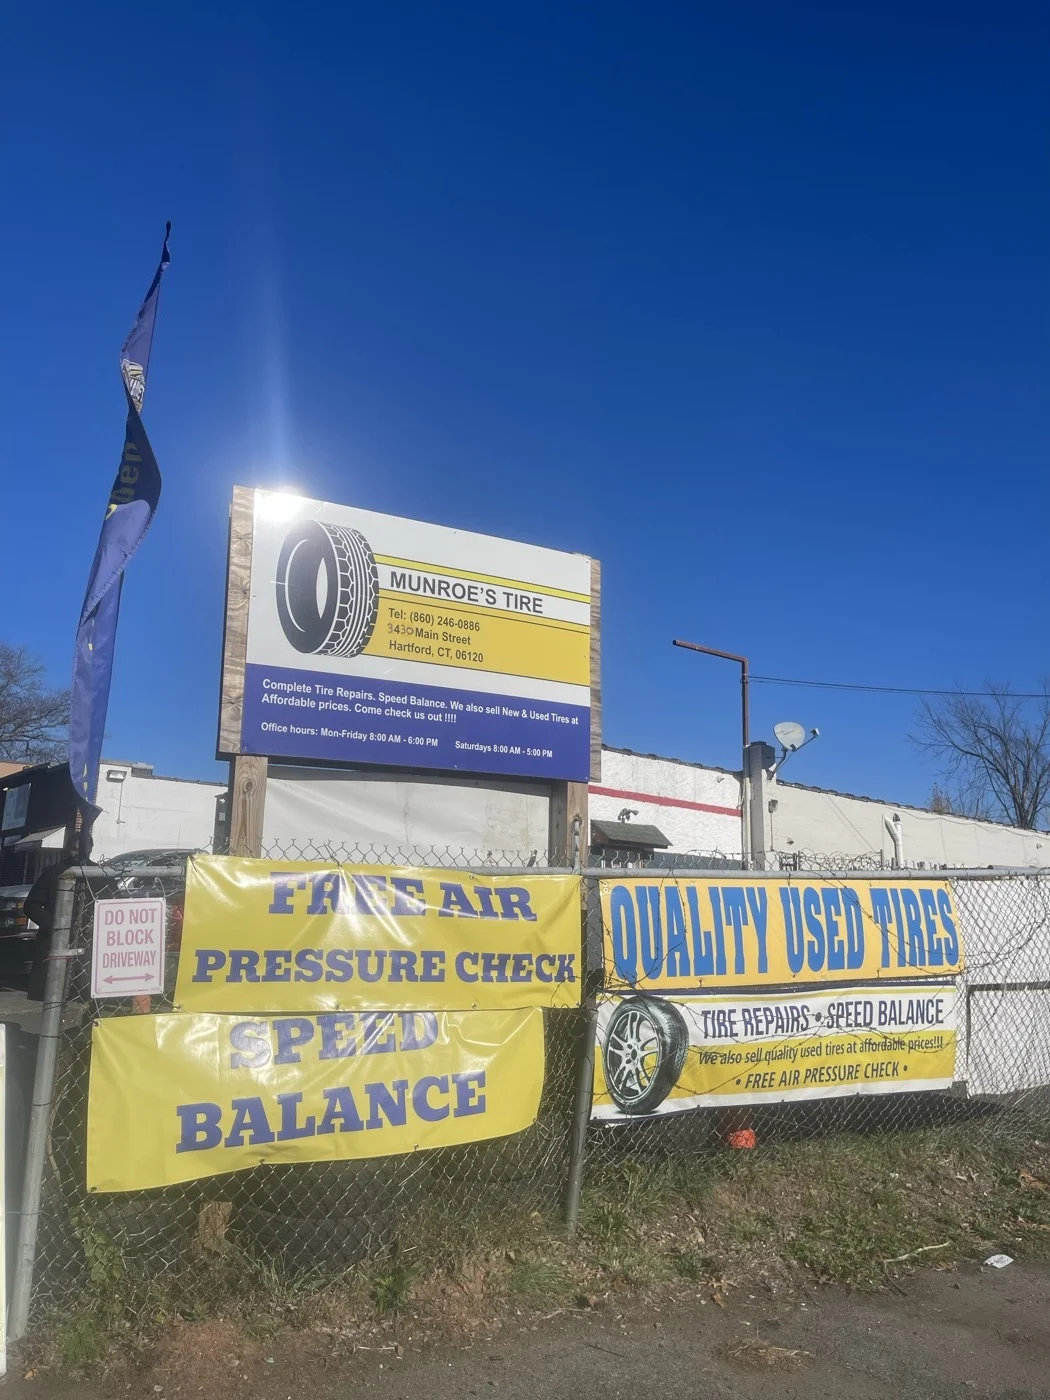
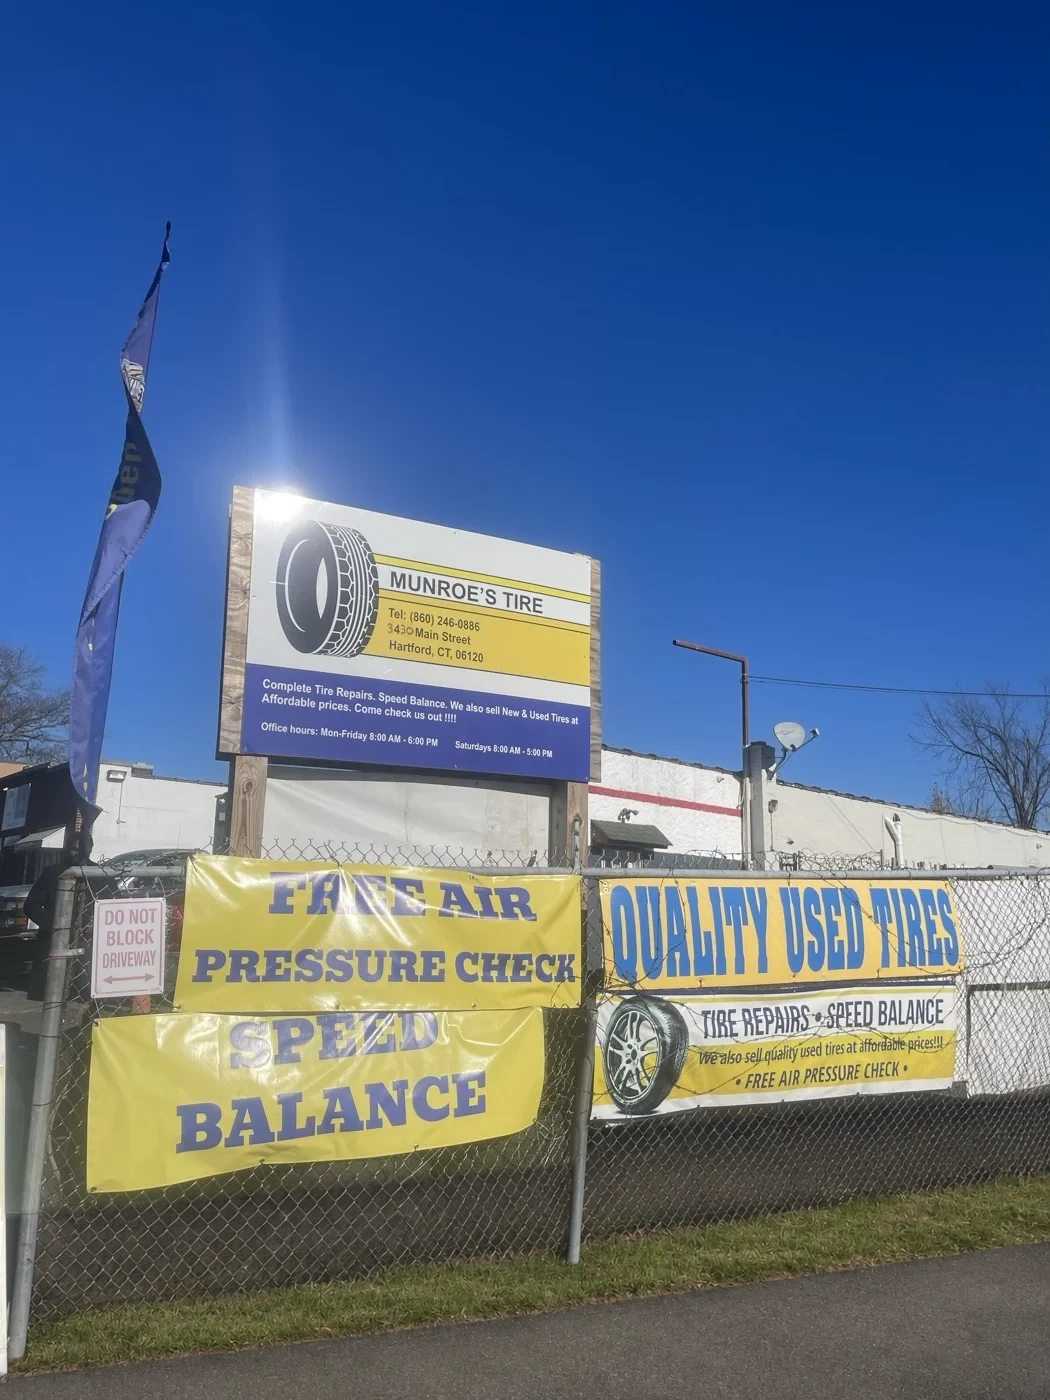
Update mobile menu, floating call button and Main Street sign photo

Changed region(s): [[0.0, 0.7679, 1.0, 1.0], [0.9143, 0.9829, 0.9448, 1.0]]

diff --git a/styles.css b/styles.css
@@ -130,6 +130,7 @@ figcaption { font-size: 1.4rem; color: var(--navy); margin-top: 8px; }
   .footer-grid { grid-template-columns: 1fr; }
 }
 .float-call { position: fixed; right: max(16px,env(safe-area-inset-right)); bottom: max(16px,env(safe-area-inset-bottom)); z-index: 3; display: grid; place-items: center; width: 58px; height: 58px; border-radius: 50%; background: var(--yellow); color: var(--navy); border: 2px solid var(--navy); box-shadow: 0 4px 16px #09245840; }
+.float-call.is-hidden { visibility: hidden; }
 .float-call svg { width: 26px; }
 @media (prefers-reduced-motion: no-preference) {
   .float-call { animation: call-in .5s ease-out .35s backwards; }
@@ -192,10 +193,10 @@ figcaption { font-size: 1.4rem; color: var(--navy); margin-top: 8px; }
   .logo { width: 142px; }
   .bar nav { width: 100%; }
   .menu-toggle:not([hidden]) {
-    display: grid; place-items: center; width: 48px; height: 48px; padding: 10px;
-    border: 1px solid #ffffff55; border-radius: 10px; background: transparent; color: white; cursor: pointer;
+    display: grid; place-items: center; width: 48px; height: 48px; padding: 8px;
+    border: 0; background: transparent; color: white; cursor: pointer;
   }
-  .menu-toggle svg { width: 26px; fill: none; stroke: currentColor; stroke-width: 2.4; stroke-linecap: round; }
+  .menu-toggle svg { width: 32px; height: 32px; fill: none; stroke: currentColor; stroke-width: 2.4; stroke-linecap: round; }
   .menu-toggle[aria-expanded="true"] { color: var(--yellow); }
   .menu-toggle:focus-visible { outline: 3px solid var(--yellow); outline-offset: 3px; }
   .menu-toggle:not([hidden]) + nav {

diff --git a/index.html b/index.html
@@ -9,8 +9,8 @@
   <link rel="icon" href="assets/munroes-logo.webp">
   <script src="navigation.js" defer></script>
   <script src="scroll-effects.js?v=4647f7f4f4" defer></script>
-  <link rel="stylesheet" href="styles.css?v=ef81d07b90">
-  <script src="app.js" defer></script>
+  <link rel="stylesheet" href="styles.css?v=42cb6e6c9e">
+  <script src="app.js?v=a1a272b4f3" defer></script>
 </head><body id="top"><a class="skip" href="#main">Skip to content</a>
 <header class="site-header">
   <div class="wrap bar">
@@ -96,7 +96,7 @@
   </div>
   <div class="gallery">
     <figure>
-      <a href="assets/photos/roadside-sign.webp" aria-label="View the full-size Main Street sign"><img class="shop-sign" loading="lazy" src="assets/photos/roadside-sign.webp" width="1050" height="1400" alt="Munroe’s roadside sign above yellow banners for used tires and free air pressure checks"></a>
+      <a href="assets/photos/roadside-sign.webp?v=e1badff6d3" aria-label="View the full-size Main Street sign"><img class="shop-sign" loading="lazy" src="assets/photos/roadside-sign.webp?v=e1badff6d3" width="1050" height="1400" alt="Munroe’s roadside sign above yellow banners for used tires and free air pressure checks"></a>
       <figcaption>Our sign on Main Street</figcaption>
     </figure>
     <figure>

diff --git a/app.js b/app.js
@@ -54,3 +54,18 @@ document.addEventListener('visibilitychange', updatePlayback);
 showPair(0);
 controls.hidden = false;
 updatePlayback();
+
+const callButton = document.querySelector('.float-call');
+
+function boundedScrollY() {
+  const bottom = document.documentElement.scrollHeight - window.innerHeight;
+  return Math.max(0, Math.min(window.scrollY, bottom));
+}
+
+let previousScrollY = boundedScrollY();
+window.addEventListener('scroll', () => {
+  const currentScrollY = boundedScrollY();
+  if (currentScrollY === previousScrollY) return;
+  callButton.classList.toggle('is-hidden', currentScrollY < previousScrollY);
+  previousScrollY = currentScrollY;
+}, { passive: true });

diff --git a/accessibility.html b/accessibility.html
@@ -9,7 +9,7 @@
   <link rel="icon" href="assets/munroes-logo.webp">
   <script src="navigation.js" defer></script>
   <script src="scroll-effects.js?v=4647f7f4f4" defer></script>
-  <link rel="stylesheet" href="styles.css?v=ef81d07b90">
+  <link rel="stylesheet" href="styles.css?v=42cb6e6c9e">
 </head><body><header class="site-header">
   <div class="wrap bar">
     <a class="logo" href="index.html" aria-label="Munroe’s Tire Service home">

diff --git a/ftc-disclosure.html b/ftc-disclosure.html
@@ -9,7 +9,7 @@
   <link rel="icon" href="assets/munroes-logo.webp">
   <script src="navigation.js" defer></script>
   <script src="scroll-effects.js?v=4647f7f4f4" defer></script>
-  <link rel="stylesheet" href="styles.css?v=ef81d07b90">
+  <link rel="stylesheet" href="styles.css?v=42cb6e6c9e">
 </head><body><header class="site-header">
   <div class="wrap bar">
     <a class="logo" href="index.html" aria-label="Munroe’s Tire Service home">

diff --git a/privacy.html b/privacy.html
@@ -9,7 +9,7 @@
   <link rel="icon" href="assets/munroes-logo.webp">
   <script src="navigation.js" defer></script>
   <script src="scroll-effects.js?v=4647f7f4f4" defer></script>
-  <link rel="stylesheet" href="styles.css?v=ef81d07b90">
+  <link rel="stylesheet" href="styles.css?v=42cb6e6c9e">
 </head><body><header class="site-header">
   <div class="wrap bar">
     <a class="logo" href="index.html" aria-label="Munroe’s Tire Service home">

diff --git a/terms.html b/terms.html
@@ -9,7 +9,7 @@
   <link rel="icon" href="assets/munroes-logo.webp">
   <script src="navigation.js" defer></script>
   <script src="scroll-effects.js?v=4647f7f4f4" defer></script>
-  <link rel="stylesheet" href="styles.css?v=ef81d07b90">
+  <link rel="stylesheet" href="styles.css?v=42cb6e6c9e">
 </head><body><header class="site-header">
   <div class="wrap bar">
     <a class="logo" href="index.html" aria-label="Munroe’s Tire Service home">
